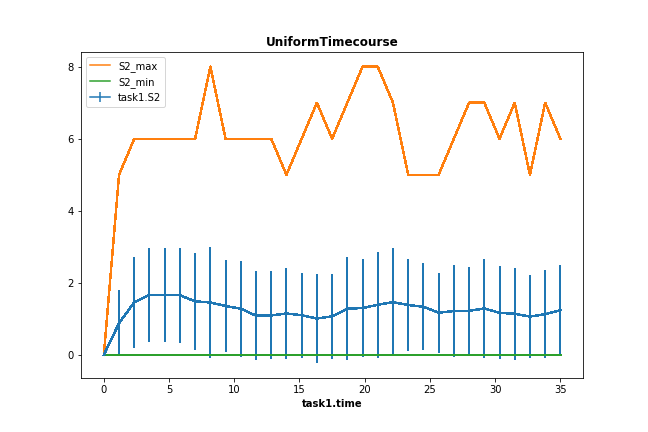
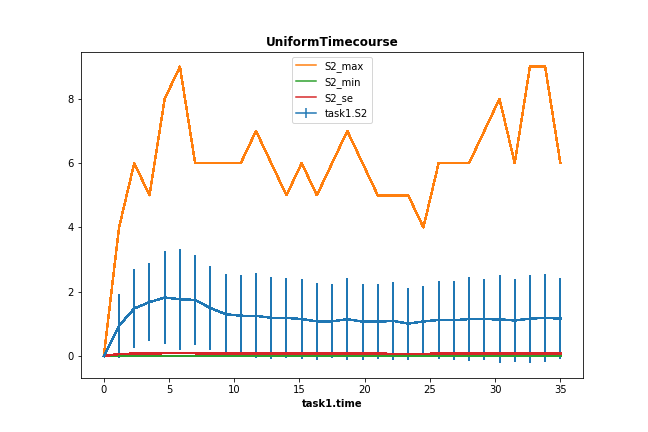
Use new KiSAO terms for everything.

diff --git a/contributions/HARMONY 2021/create_sedml_stoch_remaining_dimensions_avg_max_min_std.py b/contributions/HARMONY 2021/create_sedml_stoch_remaining_dimensions_avg_max_min_std.py
@@ -45,7 +45,7 @@ sedml.setVersion(4)
 
 dg = sedml.getDataGenerator(1)
 var = dg.getVariable(0)
-var.setSymbol("urn:sedml:function:average")
+var.setSymbol("KISAO:0000825")
 rd = var.createRemainingDimension()
 rd.setTarget("task0")
 
@@ -53,17 +53,22 @@ dg2 = dg.clone()
 dg2.setId("S2_max")
 dg2.setName("S2_max")
 var = dg2.getVariable(0)
-var.setSymbol("urn:sedml:function:max")
+var.setSymbol("KISAO:0000828")
 sedml.addDataGenerator(dg2)
 
 dg2.setId("S2_min")
 dg2.setName("S2_min")
-var.setSymbol("urn:sedml:function:min")
+var.setSymbol("KISAO:0000829")
 sedml.addDataGenerator(dg2)
 
 dg2.setId("S2_std")
 dg2.setName("S2_std")
-var.setSymbol("urn:sedml:function:std")
+var.setSymbol("KISAO:0000826")
+sedml.addDataGenerator(dg2)
+
+dg2.setId("S2_se")
+dg2.setName("S2_se")
+var.setSymbol("KISAO:0000827")
 sedml.addDataGenerator(dg2)
 
 plot2d = sedml.getOutput(0)
@@ -82,6 +87,10 @@ plot2d.addCurve(curve)
 
 curve.setId("S2_min_curve")
 curve.setYDataReference("S2_min")
+plot2d.addCurve(curve)
+
+curve.setId("S2_se_curve")
+curve.setYDataReference("S2_se")
 plot2d.addCurve(curve)
 
 

diff --git a/contributions/HARMONY 2021/create_sedml_concentration_amount.py b/contributions/HARMONY 2021/create_sedml_concentration_amount.py
@@ -45,13 +45,13 @@ sedml.setVersion(4)
 
 datagen = sedml.getDataGenerator(1).clone()
 var = datagen.getVariable(0)
-var.setSymbol("urn:sedml:symbol:amount")
+var.setSymbol("KISAO:0000836")
 datagen.setId("S1_amt")
 sedml.addDataGenerator(datagen)
 
 datagen = sedml.getDataGenerator(2).clone()
 var = datagen.getVariable(0)
-var.setSymbol("urn:sedml:symbol:amount")
+var.setSymbol("KISAO:0000836")
 datagen.setId("S2_amt")
 sedml.addDataGenerator(datagen)
 
@@ -64,13 +64,13 @@ curve.setYDataReference("S2_amt")
 
 datagen = sedml.getDataGenerator(1).clone()
 var = datagen.getVariable(0)
-var.setSymbol("urn:sedml:symbol:concentration")
+var.setSymbol("KISAO:0000838")
 datagen.setId("S1_conc")
 sedml.addDataGenerator(datagen)
 
 datagen = sedml.getDataGenerator(2).clone()
 var = datagen.getVariable(0)
-var.setSymbol("urn:sedml:symbol:concentration")
+var.setSymbol("KISAO:0000838")
 datagen.setId("S2_conc")
 sedml.addDataGenerator(datagen)
 

diff --git a/contributions/HARMONY 2021/create_sedml_concentration_amount_b.py b/contributions/HARMONY 2021/create_sedml_concentration_amount_b.py
@@ -46,13 +46,13 @@ sedml.setVersion(4)
 
 datagen = sedml.getDataGenerator(1).clone()
 var = datagen.getVariable(0)
-var.setSymbol("urn:sedml:symbol:amount")
+var.setSymbol("KISAO:0000836")
 datagen.setId("S1_amt")
 sedml.addDataGenerator(datagen)
 
 datagen = sedml.getDataGenerator(2).clone()
 var = datagen.getVariable(0)
-var.setSymbol("urn:sedml:symbol:amount")
+var.setSymbol("KISAO:0000836")
 datagen.setId("S2_amt")
 sedml.addDataGenerator(datagen)
 
@@ -65,13 +65,13 @@ curve.setYDataReference("S2_amt")
 
 datagen = sedml.getDataGenerator(1).clone()
 var = datagen.getVariable(0)
-var.setSymbol("urn:sedml:symbol:concentration")
+var.setSymbol("KISAO:0000838")
 datagen.setId("S1_conc")
 sedml.addDataGenerator(datagen)
 
 datagen = sedml.getDataGenerator(2).clone()
 var = datagen.getVariable(0)
-var.setSymbol("urn:sedml:symbol:concentration")
+var.setSymbol("KISAO:0000838")
 datagen.setId("S2_conc")
 sedml.addDataGenerator(datagen)
 

diff --git a/contributions/HARMONY 2021/create_sedml_rateOfChange_explicitamount.py b/contributions/HARMONY 2021/create_sedml_rateOfChange_explicitamount.py
@@ -48,10 +48,10 @@ var = datagen.createDependentVariable()
 var.setId("S1")
 var.setTaskReference("task0")
 var.setModelReference("model0")
-var.setTerm("urn:sedml:analysis:rateOfChange")
-var.setSymbol("urn:sedml:symbol:amount")
+var.setTerm("KISAO:0000834")
+var.setSymbol("KISAO:0000836")
 var.setTarget(ovar.getTarget())
-var.setSymbol2("urn:sedml:symbol:time")
+var.setSymbol2("KISAO:0000832")
 datagen.setId("S1_roc")
 sedml.addDataGenerator(datagen)
 
@@ -61,10 +61,10 @@ var = datagen.createDependentVariable()
 var.setId("S2")
 var.setTaskReference("task0")
 var.setModelReference("model0")
-var.setTerm("urn:sedml:analysis:rateOfChange")
-var.setSymbol("urn:sedml:symbol:amount")
+var.setTerm("KISAO:0000834")
+var.setSymbol("KISAO:0000836")
 var.setTarget(ovar.getTarget())
-var.setSymbol2("urn:sedml:symbol:time")
+var.setSymbol2("KISAO:0000832")
 datagen.setId("S2_roc")
 sedml.addDataGenerator(datagen)
 

diff --git a/contributions/HARMONY 2021/create_sedml_rateOfChange.py b/contributions/HARMONY 2021/create_sedml_rateOfChange.py
@@ -48,9 +48,9 @@ var = datagen.createDependentVariable()
 var.setId("S1")
 var.setTaskReference("task0")
 var.setModelReference("model0")
-var.setTerm("urn:sedml:analysis:rateOfChange")
+var.setTerm("KISAO:0000834")
 var.setTarget(ovar.getTarget())
-var.setSymbol2("urn:sedml:symbol:time")
+var.setSymbol2("KISAO:0000832")
 datagen.setId("S1_roc")
 sedml.addDataGenerator(datagen)
 
@@ -60,9 +60,9 @@ var = datagen.createDependentVariable()
 var.setId("S2")
 var.setTaskReference("task0")
 var.setModelReference("model0")
-var.setTerm("urn:sedml:analysis:rateOfChange")
+var.setTerm("KISAO:0000834")
 var.setTarget(ovar.getTarget())
-var.setSymbol2("urn:sedml:symbol:time")
+var.setSymbol2("KISAO:0000832")
 datagen.setId("S2_roc")
 sedml.addDataGenerator(datagen)
 

diff --git a/contributions/HARMONY 2021/create_sedml_stoch_remaining_dimensions_average.py b/contributions/HARMONY 2021/create_sedml_stoch_remaining_dimensions_average.py
@@ -45,27 +45,9 @@ sedml.setVersion(4)
 
 dg = sedml.getDataGenerator(1)
 var = dg.getVariable(0)
-var.setSymbol("urn:sedml:function:average")
+var.setSymbol("KISAO:0000825")
 rd = var.createRemainingDimension()
 rd.setTarget("task0")
-
-# dg2 = dg.clone()
-# dg2.setId("S2_max")
-# var = dg2.getVariable(0)
-# var.setSymbol("urn:sedml:function:max")
-# sedml.addDataGenerator(dg2)
-
-# dg2.setId("S2_min")
-# var.setSymbol("urn:sedml:function:min")
-# sedml.addDataGenerator(dg2)
-
-# dg2.setId("S2_std")
-# var.setSymbol("urn:sedml:function:std")
-# sedml.addDataGenerator(dg2)
-
-
-
-
 
 sedstr = libsedml.writeSedMLToString(sedml)
 print(sedstr)

diff --git a/contributions/HARMONY 2021/create_sedml_stoichiometry_matrix.py b/contributions/HARMONY 2021/create_sedml_stoichiometry_matrix.py
@@ -44,7 +44,7 @@ var = datagen.createDependentVariable()
 var.setId("j")
 var.setModelReference("model0")
 var.setTaskReference("task0")
-var.setTerm("urn:sedml:analysis:stoichiometryMatrix:full")
+var.setTerm("KISAO:0000811")
 astn = libsbml.parseL3Formula("j");
 datagen.setMath(astn)
 

diff --git a/contributions/HARMONY 2021/create_sedml_jacobian.py b/contributions/HARMONY 2021/create_sedml_jacobian.py
@@ -44,7 +44,7 @@ var = datagen.createDependentVariable()
 var.setId("j")
 var.setModelReference("model0")
 var.setTaskReference("task0")
-var.setTerm("urn:sedml:analysis:jacobian:full")
+var.setTerm("KISAO:0000812")
 astn = libsbml.parseL3Formula("j");
 datagen.setMath(astn)
 
